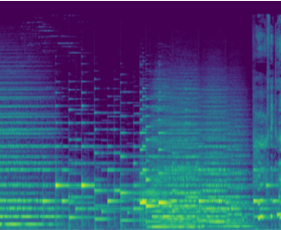
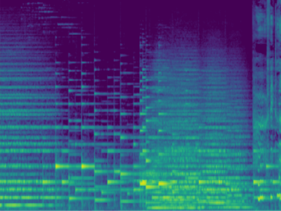
Projects update

diff --git a/_projects/5_project.md b/_projects/5_project.md
@@ -1,10 +1,10 @@
 ---
 layout: page
-title: project 5
-description: a project with a background image
-img: assets/img/1.jpg
-importance: 3
-category: fun
+title: Image Generation with Stable Diffusion
+description: Implementation of Stable Diffusion with Noise Samplers from scratch
+img: assets/img/bedroom_denoise.gif
+importance: 4
+redirect: https://github.com/Chainathan/unguided-image-generation
 ---
 
 Every project has a beautiful feature showcase page.

diff --git a/_projects/7_project.md b/_projects/7_project.md
@@ -1,11 +1,10 @@
 ---
 layout: page
-title: project 7
-description: with background image
-img: assets/img/4.jpg
-importance: 1
-category: work
-related_publications: true
+title: Tiny Torch Utils
+description: Custom PyTorch Model Training framework with gradient stats and callback options
+img: assets/img/pytorch.png
+importance: 6
+redirect: https://github.com/Chainathan/tiny-torch-util
 ---
 
 Every project has a beautiful feature showcase page.

diff --git a/_projects/4_project.md b/_projects/4_project.md
@@ -1,10 +1,10 @@
 ---
 layout: page
-title: project 4
-description: another without an image
-img:
+title: Research Paper Summarization
+description: Finetuned Gemma-7B, LLaMA-7B, and Mistral-7B for hybrid long-context summarization
+img: assets/img/transformer.png
 importance: 3
-category: fun
+redirect: https://github.com/Chainathan/research-paper-summarization
 ---
 
 Every project has a beautiful feature showcase page.

diff --git a/_projects/6_project.md b/_projects/6_project.md
@@ -1,10 +1,10 @@
 ---
 layout: page
-title: project 6
-description: a project with no image
-img:
-importance: 4
-category: fun
+title: Art Style Transfer
+description: VGG16 - Feature extraction and Style transfer
+img: assets/img/style.jpg
+importance: 5
+redirect: https://github.com/Chainathan/style-transfer
 ---
 
 Every project has a beautiful feature showcase page.

diff --git a/_projects/1_project.md b/_projects/1_project.md
@@ -4,7 +4,6 @@ title: Automated Annotation of Object Positions in High-Speed Videos
 description: Vision Transformer and MediaPipe pipeline for rapid, automated object detection and annotation.
 img: assets/img/annotate.gif
 importance: 1
-category: work
 redirect: https://github.com/Chainathan/automated-video-annotation-of-objects-in-high-speed-hand-movements
 ---
 

diff --git a/_projects/3_project.md b/_projects/3_project.md
@@ -2,9 +2,8 @@
 layout: page
 title: Text-to-Music Generation
 description: Stable Diffusion with Spectrogram images and latent space interpolation
-img: assets/img/spectrogram.gif
+img: assets/img/spec2.gif
 importance: 2
-category: work
 redirect: https://github.com/Chainathan/text-to-music-generation
 ---
 

diff --git a/_projects/2_project.md b/_projects/2_project.md
@@ -4,7 +4,6 @@ title: Text-to-Music Generation
 description: Stable Diffusion with Spectrogram images and latent space interpolation
 img: assets/img/spectrogram.png
 importance: 2
-category: work
 redirect: https://github.com/Chainathan/text-to-music-generation
 ---
 

diff --git a/_pages/projects.md b/_pages/projects.md
@@ -5,7 +5,6 @@ permalink: /projects/
 # description: A growing collection of your cool projects.
 nav: true
 nav_order: 3
-display_categories: [work, fun]
 horizontal: false
 ---
 
